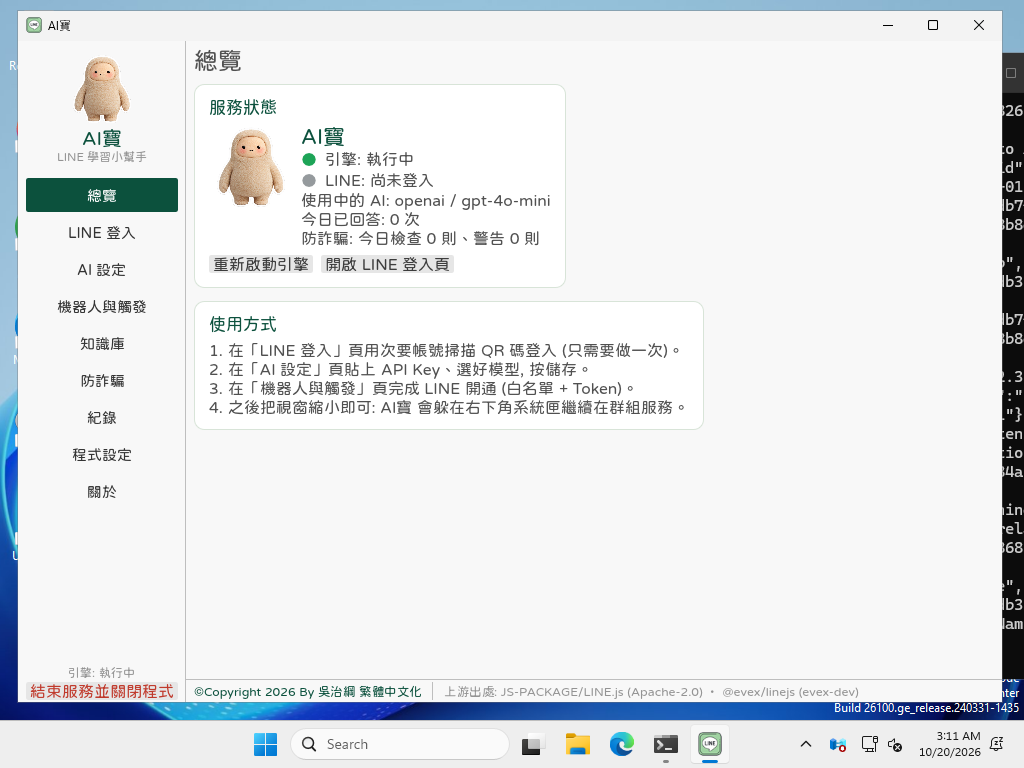
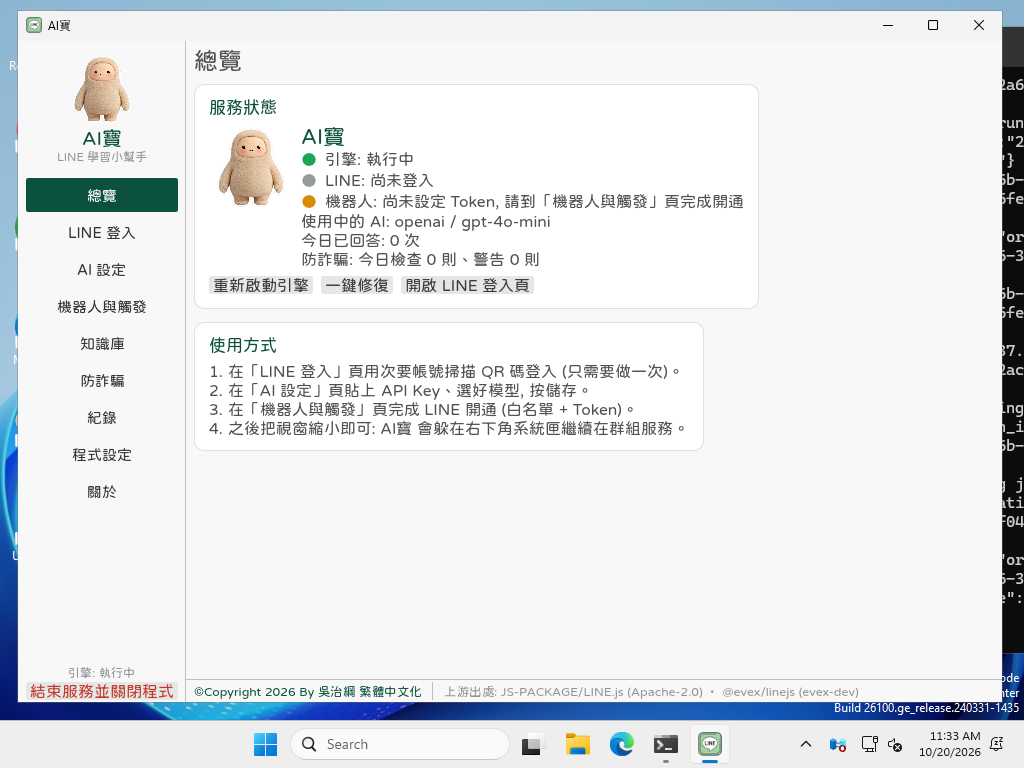
HANDOFF 補記: 11項+A/B/C批次 (先決查證結案/版本戳記情境E/證據/未驗證清單) + 最終 run 主視窗截圖

Changed region(s): [[0.1875, 0.25, 0.75, 0.5938], [0.9688, 0.0312, 1.0, 0.9062], [0.9062, 0.9375, 0.9375, 0.9688]]

diff --git a/HANDOFF.md b/HANDOFF.md
@@ -60,6 +60,8 @@
 
 - 2026-10-20 下午 四＋四項修復批次（老吳實機 log 定案的缺失＋追加項；ai-bao 提交 ede6f56／ae56dd5／f3aceb6／48be2cd／45fc0c8／ace83db／d45de3b，基底 a27b76c）：(1)【bot 斷線自動重連】根因：核心換發/撤銷 Token 立即中斷所有機器人連線（AGENTS.md 安全規則 11），bot 原本斷線不重連、generate-token 還靜默吞錯。bot.mjs 連線管理重寫：wantConnected 旗標、退避重試排程（1/2/5/10/30 秒、每次重讀最新 Token 故換 Token 後自動以新 Token 自癒）、舊 socket 遲到事件不污染新連線、reconnect() 主動換線供換 Token 呼叫且回傳成敗；/api/status 新增 bot.botConnected 與 reconnecting；generate-token 依重連結果回誠實訊息。(2)【總覽分開顯示】App 總覽拆「LINE 登入」與「機器人連線」兩列（讀 botConnected），web 控制台狀態卡同步拆兩 pill。(3)【KB 掃描不擋主線】根因：同步掃描 7,748 檔/110,727 chunks 阻塞事件迴圈 134 秒，/api/settings 與 WS 全卡。kb.mjs 改分段 async（每 8 檔/500 段讓出事件迴圈、新索引整批換上、掃描期間舊索引續服務、同時只跑一個掃描）、tf 持久化進 kb-index.json（重啟不重算）、舊索引 statsStale 擋搜尋直到補算完；PUT /api/settings 不再等掃描（回應加 kbNotice），資料夾 >2000 檔 App/web 顯示白話提醒（只提醒不阻擋）；量測證據：400 檔/5200 chunks 掃描 ~1.5 秒期間 20ms 計時器最大延遲 ~149ms（舊同步版整段卡死）。(4)【紀錄頁匯出診斷包】App 紀錄頁新增「匯出診斷包」按鈕（選存檔位置→zip：version.txt/status.json/settings-masked/logs 近 14 天＋shell.log，不含原始 settings.json/機密庫/session，內建 stored-zip 寫入器＋結構單元測試 cargo test 1 passed）＋紀錄文字可選取複製；helper /api/diagnostic 改打包保留期全部 log。(5＋7＋B)【重開撞自家 stack 判 Foreign 鎖死】定案機制（老吳 PowerShell 實查＋程式證據）：佔埠者是合體版自己的 engine.exe（engine 目錄尾段 104919552＝合體版 payload 位元組數），/api/status 當時可回、群組回答正常；舊 classify 對「/api/status 已回但 body 讀不完整/逾時」直接判 Foreign（helper 被 KB 掃描堵塞時一次探測跨在堵塞結束前後即命中此形狀），且 start 單次探測即定讞、Failed 狀態永不重探 → 永久鎖死；「重新啟動引擎」同樣先撞同一誤判而看似無反應。修法：探測三層分類（連不上=None、回應不完整=Flapping 身分未定、完整 body 才分 Current/Legacy/Foreign），probe_classes_confirmed 多輪確認（Foreign 須連續兩輪成立）、Starting 連續 3 次才鎖 Failed、Failed/ExternalRunning 狀態校正（每 4 秒重探，認出自家即自我復原接手、雙埠皆空才落 Stopped）、stop 遇 Flapping 先等重探；Foreign/BlockedForeign 訊息拿掉「任何世代都不是」絕對宣稱（與事實不符）並附佔用者 PID＋映像名。--autostart 與雙擊共用同一套探測邏輯（main.rs App::new 無條件 mgr.start()，--autostart 只改視窗隱藏）。(6)【狀態一致性】總覽以 engine_ok 把關：引擎非執行中時 LINE/機器人列改顯示「未取得/未連線」且不渲染 AI/防詐騙舊快照。(8)【白名單清單管理】helper 新增 GET /api/line/whitelist（逐筆列出，名稱對照核心快照解析，核心不可用時 nameResolved=false 只給 ID）與 POST /api/line/config-remove（linecfg removeCoreApiChat，比照加入的備份/驗證/還原）；App 機器人頁與 web 控制台都加逐筆清單＋移除按鈕（提示同加入：完全結束重開才生效）。/api/line/chats 的 404 順查結論：該端點在 server.mjs 未匹配時回 404（fallthrough），corechats 的錯誤一律回 HTTP 200＋code（NOT_LOGGED_IN 等），不會是 404；404 只可能來自「當下 3790 的回應者沒有這條路由」＝群組清單功能（18e0021，2026-10-20 上午才加入）之前的 helper 世代——與當日下午多世代引擎輪流佔埠的現場一致；合體版 helper 有此路由已由每版 CI 探針實打證明（helper_line_chats_route=ok）。gen-0（4a54c35）/gen-1（1314fb3）helper /api/status 形狀經 git 查證均為 {version, bot, serverTime}，本來就符合 Legacy 三件組、不需放寬辨識。測試：helper 36/36（兩 repo 同步，新增 bot 重連自癒、KB 事件迴圈延遲量測、largeFolder、白名單列出/降級/移除落盤等）；App 雙 target cargo check 過；cargo test（zip 結構）1 passed。雲端 build-app run 39396215897 四 job 全數 success：探針全 ok（新增 helper_status_bot_connected_field=true、helper_line_whitelist_route=ok）、login_roundtrip=ok、ports_freed=true；legacy 情境 A 紅燈（gen2 殼×gen0 殘留 residue_present=True）、B/C 綠燈 cleanup_ok；新增情境 D（stub 模擬 helper 回應不完整＝KB 掃描堵塞形狀）：D-red 舊殼 gen-3 誤判 Foreign 鎖死（foreign_locked=True，紅燈重現）、D-green 新殼以 --autostart 啟動、探測出現身分未定重試（flapping_seen=True）、foreign_locked=False、接手成功、--quit 清乾淨（cleanup_ok=True）——同批覆蓋開機自啟動冷開機時序。主視窗截圖親自檢視：總覽三列（引擎執行中/LINE 尚未登入/機器人 尚未設定 Token 附開通提示）、粉圓體、定版頭像、頁尾版權宣告＋上游出處、系統匣圖示。成品 AI寶-App.exe 127,096,320 bytes（MD5 ea25b64358043c4ddfc53a5f36258616）已原地換新 Drive id 1BWJiznBeMoeQbIaS7jxbKagiNBcnrmfX（回讀大小＋MD5 一致）與 Release aibao-app-v1 資產；artifacts 4 件已刪。Ubuntu 同批：ai-bao＝956e36d、helper 36/36、本機重打包 48,887,943 bytes（MD5 d87b41a376de9abe4331a9714d6b2ca9）、冒煙（雙埠 200、botConnected 欄位、whitelist 端點、chats NOT_LOGGED_IN、SIGTERM 乾淨結束、session AES 落盤）後以 live id 1IvByfNnuZmZQ_yCvDekwOCFHEGxnQ1pT 原地換新（回讀核對一致）。未驗證（待老吳實機）：換 Token 後不重開自動重連的真機行為、7,748 檔掃描期間訊息不漏接、重開/自啟動冷開機撞存活 stack 的實際復原行為、白名單移除真機流程、診斷包在真機產出與開啟。
 
+- 2026-10-20 晚 11 項＋A/B/C 批次（老吳實機回報 11 條＋消費級追加三項＋視窗鎖定；ai-bao 提交 87b0aeb／1b154e3／9c7e30c／d075219，基底 85ce33a）：【先決查證結案】交付 exe（run 39396215897）拆 payload 實測：打包 helper 的 whitelist 路由在（字串實查＋以 pack 同管線自 d45de3b 重打包實跑實打 200）；舊建置（007c85b）同法實打 whitelist 404 與實機截圖一致 → 打包無落後，真因＝新殼 classify 只驗 service 標記、不驗建置版本，誤收編舊世代 stack（其 helper 缺新路由）。(1)【版本戳記】engine.rs 新增 StackVersion 比對：listener 映像在 engine/<id>/ 目錄→目錄名即戳記；獨立執行形態（AI寶.exe／*-engine.exe／aibao 命名）→檔案大小比對、大小同才讀全檔 FNV-1a（與 build.rs 同法）確認；其他映像（pwsh 等）不干預。戳記不符→helper 降 Legacy 走換版清除，不得當 Current。CI 新增情境 E：E-red gen-3 殼誤收編 prev（d45de3b）stack（adopted=True, prev_pids_alive=3，紅燈重現）、E-green 新殼 stamp_logged=True、prev 清除歸零、自家引擎接手（new_engine_pids=3)、whitelist 實打 200、--quit cleanup_ok。過程中兩次假失敗皆定案修正：pwsh 參數 $home 撞唯讀自動變數（改 dataHome)、list-models 探針 10 秒逾時撞認證管理員 PowerShell 冷啟動（改 40 秒長逾時，比照 chats/whitelist)。(2)【抓模型永轉】根因：listModels 路徑無有效專屬逾時（實測打包 helper 對永不回應 stub 掛 >40 秒）；ai.mjs 改每呼叫可注入 timeoutMs、listModels 預設 15 秒、逾時回 AI_TIMEOUT 白話；殼 helper_api list_models 本有 45 秒。(3)【reindex】掃描進行中立即回 JSON（already-scanning+queued），未掃描只短等 1 秒；迴歸測試斷言 <3 秒。(4)【圖示】pack/tools/ico.mjs 重寫：預乘 alpha 重採樣、8 尺寸（16/20/24/32/48/64/128/256）透明 ICO，引擎與殼同源同函數；殼視窗/匣改餵預縮 64/32px；icon-check 16/20/32 渲染逐張檢視無黑邊；CI 主視窗截圖工作列圖示正常。(5)【頭像】查證：核心 profile/auth:ready 帶 pictureId（本機 media id），殼 core_ws 新增解析＋以既有 cookie 流程向 /media/<id> 取圖，總覽/側欄優先顯示帳號實際頭像、抓不到退回品牌定版圖；「從 App 改 LINE 頭像」不支援：linejs 有 uploadMyProfileImage 但無任何 WS/helper 端點暴露，且 AGENTS.md 規則 11 機器人 API 唯讀清單不含寫入，屬協定＋安全規則變更、未經真帳號實測——列待老吳裁示。(6)【來源開關】settings.showSources 預設 false，關閉時 bot 不附加任何來源行；App 知識庫頁與 web 同步開關；測試兩態（e2e C 開/C2 關）。(7)【創造者固定答覆】settings.creatorReply 出廠預設逐字「是吳治綱大師創造此機器人，©Copyright By 吳治綱」（殼/helper/原字串三處逐字核對一致）；isCreatorIntent：版權/copyright 強訊號直命中，其他關鍵詞須同時指涉機器人本身（防「Excel 是誰開發的」誤觸；已知取捨：「你知道 Excel 是誰開發的嗎」因含「你」會命中，註解與測試已載明）；命中不經 AI、不附來源；機器人頁/web 可編輯。(8)【人設七欄】persona{birthdate,gender,zodiac,measurements,interests,maritalStatus,intro} 注入 system prompt，年紀 calculateAge(出生日，今天）自動算（測試注入日期：2000-10-21→25 歲、2000-10-19→26 歲）；空欄位規則＝誠實說「這部分我還沒有設定」不得編造（prompt 斷言驗證）。(9)【別名標籤】主名/別名欄位加白話標籤與範例（別名是我的小名…例：小寶，阿寶）。(10)【引用加固】盤點核心 history 每頁上限 100、cursor 為最舊一則：bot 連線後對白名單聊天室主動 prefetch 3 頁補登、登記簿 2000 筆/7 天→10000 筆/30 天、補查 2→5 頁；quote e2e 新增：灌 2100 則淹沒後引用仍觸發、第 4 頁深處補查命中、重連補登後引用不需再查。(A)【錯誤白話化】殼 helper_api 統一錯誤層（CallErr 三類）：傳輸失敗退避重試 3 次（0.4s/1.2s）後回白話＋指引一鍵修復、原始錯誤只進 shell log；main.rs 三處（匯出診斷包失敗、自啟動寫入/移除失敗）改白話；helper ai.mjs 錯誤去 URL/原文（plainHttpReason 對照表，原文進 AiError.detail 只寫 log)、bot 備援訊息、server 500、web 四處 catch 補白話。(B)【一鍵修復】總覽頁按鈕：背景執行緒走 engine stop()/start()（含世代/版本判定，真外來佔埠不硬搶、結果列出佔用者訊息）、重啟後輪詢 status 確認 botConnected、結果逐行白話回報；CI 等效證據＝情境 E-green（舊建置佔埠→殼自動清除換版恢復）＋B/C 情境。(C)【健壯性基線】殼所有 helper 呼叫皆有逾時（3–60 秒分級）與失敗態、傳輸層退避重試。(D)【視窗鎖定】ViewportBuilder resizable(false)+inner/min/max 同釘 1024×720（現行設計尺寸沿用）；egui 介面縮放停用（zoom_with_keyboard=false＋每幀濾 Event::Zoom＋zoom_factor 強制 1.0)，pixels_per_point 只跟系統 DPI;--autostart 同路徑。測試：helper 45/45（兩 repo，diff 一致）、pack 47/47（含 ico 3 項）、App 雙 target cargo check 過、cargo test 1 passed。雲端 build-app run 39414764353 四 job 全 success：探針全 ok（對打包 payload 實打 list-models/test-ai/chats/whitelist 路由、bot_connected_field、login_roundtrip、ports_freed)、legacy 情境 A 紅/B/C/D/E 全綠（E 見上）、GUI 結束 residual=none、主視窗截圖親自檢視（一鍵修復鈕、狀態兩列、版權頁尾、工作列圖示）。成品 AI寶-App.exe 127,311,360 bytes（MD5 39c8bf5ef67a5ef822f87c4f92cca733）已原地換新 Drive id 1BWJiznBeMoeQbIaS7jxbKagiNBcnrmfX（回讀大小＋MD5 一致）與 Release aibao-app-v1 資產；四個 run 的 artifacts 共 16 件已刪。Ubuntu 同批：ai-bao=7e50212、helper 45/45；本機重打包 48,892,835 bytes（MD5 0c9aa23c798f00bfca198b9095c89963）並實跑打包成品驗端點（status/whitelist/settings 含新欄位/reindex 全 200）後以 live id 1IvByfNnuZmZQ_yCvDekwOCFHEGxnQ1pT 原地換新（回讀核對一致）。未驗證（待老吳實機）：白名單逐筆讀取、引用真人實測、自啟動重開機、結束無殘留、一鍵修復真機點擊、帳號實際頭像真機顯示、視窗邊框拖拉鎖定、創造者/人設真群組問答。
+
 ## 6. 待辦（依序）
 
 1. （已完成）雲端驗證五輪結果判讀、最終版 exe 備份 Drive、五輪 artifact 清理，皆於 2026-10-16 深夜完成，見第 5 節。
